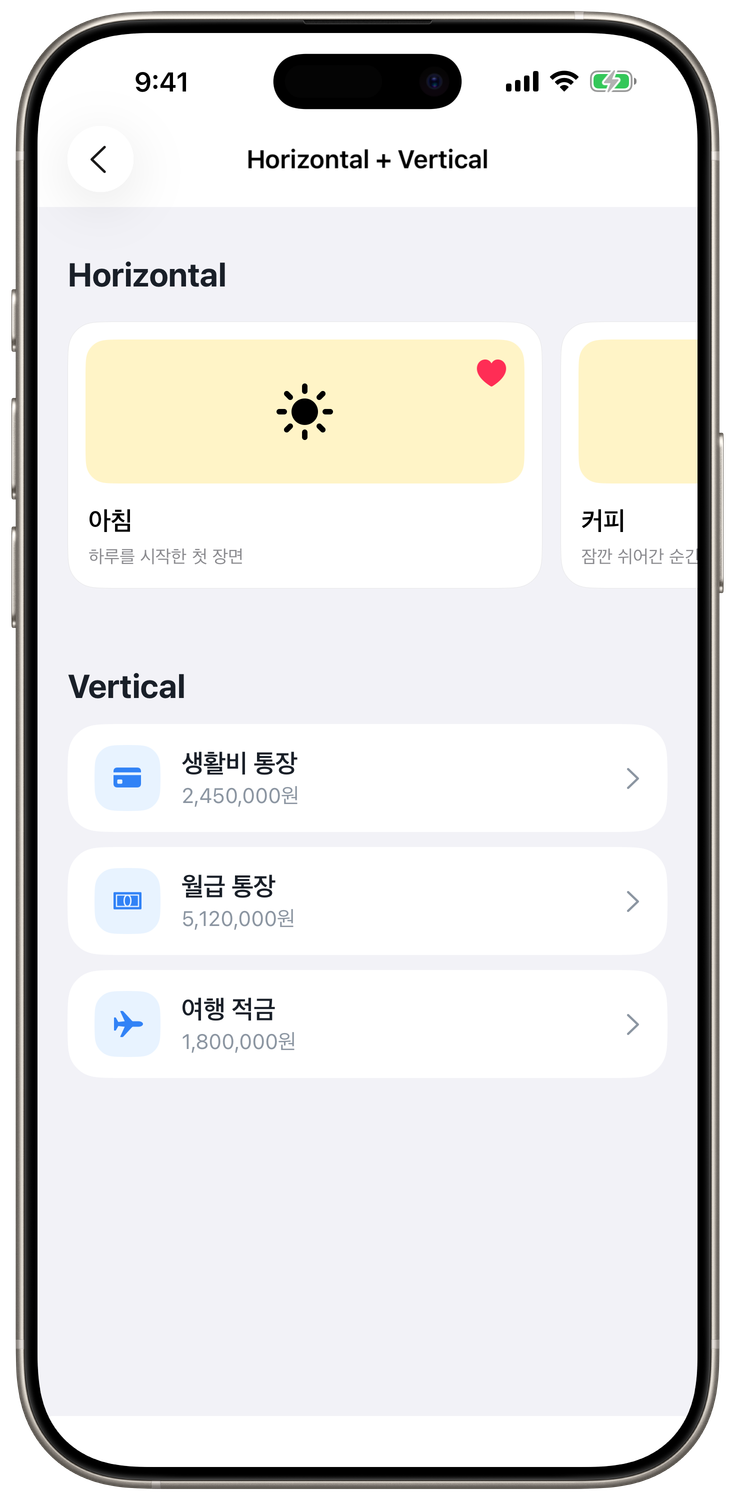
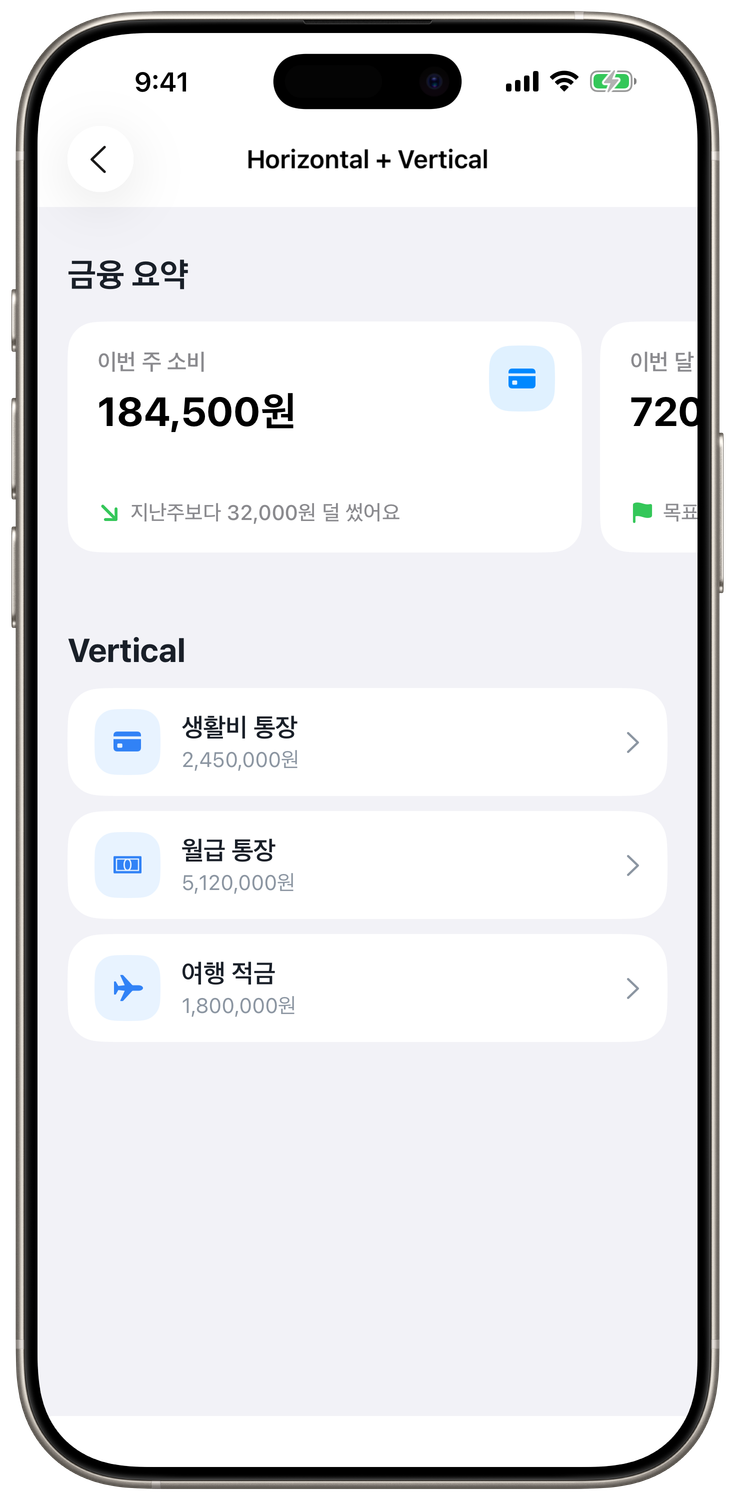
[#59] Horizontal 예제를 금융 요약 카드로 개선

diff --git a/Projects/Shared/CollectionViewAdapter/Demo/4. ReadmeCapture/3. ReadmeMixedSectionsViewController.swift b/Projects/Shared/CollectionViewAdapter/Demo/4. ReadmeCapture/3. ReadmeMixedSectionsViewController.swift
@@ -1,31 +1,265 @@
 import CollectionViewAdapter
 import UIKit
 
+private final class ReadmeFinanceSummaryContentView: UIControl, Touchable {
+    struct Item: Identifiable, Equatable {
+        let id: String
+        let title: String
+        let amount: String
+        let detail: String
+        let symbolName: String
+        let detailSymbolName: String
+    }
+    var item: Item? {
+        didSet {
+            guard item != oldValue else {
+                return
+            }
+            applyItem()
+        }
+    }
+    private let surfaceView = UIView()
+    private let titleLabel = UILabel()
+    private let amountLabel = UILabel()
+    private let symbolBackgroundView = UIView()
+    private let symbolView = UIImageView()
+    private let detailSymbolView = UIImageView()
+    private let detailLabel = UILabel()
+    private let detailStackView = UIStackView()
+    override init(frame: CGRect) {
+        super.init(frame: frame)
+        configureView()
+        configureLayout()
+    }
+    @available(*, unavailable)
+    required init?(coder: NSCoder) {
+        fatalError("init(coder:)는 지원하지 않습니다.")
+    }
+
+    override var isHighlighted: Bool {
+        didSet {
+            surfaceView.alpha = isHighlighted ? 0.72 : 1
+            surfaceView.transform = isHighlighted
+                ? CGAffineTransform(scaleX: 0.98, y: 0.98)
+                : .identity
+        }
+    }
+
+    private func applyItem() {
+        guard let item else {
+            titleLabel.text = nil
+            amountLabel.text = nil
+            detailLabel.text = nil
+            symbolView.image = nil
+            detailSymbolView.image = nil
+            accessibilityLabel = nil
+            return
+        }
+
+        titleLabel.text = item.title
+        amountLabel.text = item.amount
+        detailLabel.text = item.detail
+        symbolView.image = UIImage(systemName: item.symbolName)
+        detailSymbolView.image = UIImage(
+            systemName: item.detailSymbolName
+        )
+        accessibilityLabel =
+            "\(item.title), \(item.amount), \(item.detail)"
+    }
+
+    private func configureView() {
+        backgroundColor = .clear
+        isAccessibilityElement = true
+        accessibilityTraits = .button
+
+        surfaceView.backgroundColor = .secondarySystemGroupedBackground
+        surfaceView.layer.cornerRadius = 20
+        surfaceView.layer.cornerCurve = .continuous
+        surfaceView.isUserInteractionEnabled = false
+
+        titleLabel.font = .systemFont(ofSize: 15, weight: .semibold)
+        titleLabel.textColor = .secondaryLabel
+
+        amountLabel.font = .systemFont(ofSize: 27, weight: .bold)
+        amountLabel.textColor = .label
+
+        symbolBackgroundView.backgroundColor =
+            UIColor.systemBlue.withAlphaComponent(0.12)
+        symbolBackgroundView.layer.cornerRadius = 14
+
+        symbolView.tintColor = .systemBlue
+        symbolView.contentMode = .scaleAspectFit
+        symbolView.preferredSymbolConfiguration =
+            UIImage.SymbolConfiguration(
+                pointSize: 18,
+                weight: .semibold
+            )
+
+        detailSymbolView.tintColor = .systemGreen
+        detailSymbolView.contentMode = .scaleAspectFit
+        detailSymbolView.preferredSymbolConfiguration =
+            UIImage.SymbolConfiguration(
+                pointSize: 13,
+                weight: .bold
+            )
+
+        detailLabel.font = .systemFont(ofSize: 14, weight: .medium)
+        detailLabel.textColor = .secondaryLabel
+        detailLabel.numberOfLines = 1
+
+        detailStackView.axis = .horizontal
+        detailStackView.alignment = .center
+        detailStackView.spacing = 6
+        detailStackView.addArrangedSubview(detailSymbolView)
+        detailStackView.addArrangedSubview(detailLabel)
+    }
+
+    private func configureLayout() {
+        surfaceView.translatesAutoresizingMaskIntoConstraints = false
+        titleLabel.translatesAutoresizingMaskIntoConstraints = false
+        amountLabel.translatesAutoresizingMaskIntoConstraints = false
+        symbolBackgroundView.translatesAutoresizingMaskIntoConstraints =
+            false
+        symbolView.translatesAutoresizingMaskIntoConstraints = false
+        detailStackView.translatesAutoresizingMaskIntoConstraints = false
+
+        configureHierarchy()
+        activateSurfaceConstraints()
+        activateContentConstraints()
+    }
+
+    private func configureHierarchy() {
+        addSubview(surfaceView)
+        surfaceView.addSubview(titleLabel)
+        surfaceView.addSubview(amountLabel)
+        surfaceView.addSubview(symbolBackgroundView)
+        symbolBackgroundView.addSubview(symbolView)
+        surfaceView.addSubview(detailStackView)
+    }
+
+    private func activateSurfaceConstraints() {
+        NSLayoutConstraint.activate([
+            surfaceView.leadingAnchor.constraint(equalTo: leadingAnchor),
+            surfaceView.trailingAnchor.constraint(equalTo: trailingAnchor),
+            surfaceView.topAnchor.constraint(equalTo: topAnchor),
+            surfaceView.bottomAnchor.constraint(equalTo: bottomAnchor),
+
+            titleLabel.leadingAnchor.constraint(
+                equalTo: surfaceView.leadingAnchor,
+                constant: 20
+            ),
+            titleLabel.topAnchor.constraint(
+                equalTo: surfaceView.topAnchor,
+                constant: 18
+            ),
+
+            symbolBackgroundView.trailingAnchor.constraint(
+                equalTo: surfaceView.trailingAnchor,
+                constant: -18
+            ),
+            symbolBackgroundView.topAnchor.constraint(
+                equalTo: surfaceView.topAnchor,
+                constant: 16
+            ),
+            symbolBackgroundView.widthAnchor.constraint(
+                equalToConstant: 44
+            ),
+            symbolBackgroundView.heightAnchor.constraint(
+                equalToConstant: 44
+            ),
+
+            symbolView.centerXAnchor.constraint(
+                equalTo: symbolBackgroundView.centerXAnchor
+            ),
+            symbolView.centerYAnchor.constraint(
+                equalTo: symbolBackgroundView.centerYAnchor
+            ),
+            symbolView.widthAnchor.constraint(equalToConstant: 22),
+            symbolView.heightAnchor.constraint(equalToConstant: 22)
+        ])
+    }
+
+    private func activateContentConstraints() {
+        NSLayoutConstraint.activate([
+            amountLabel.leadingAnchor.constraint(
+                equalTo: titleLabel.leadingAnchor
+            ),
+            amountLabel.topAnchor.constraint(
+                equalTo: titleLabel.bottomAnchor,
+                constant: 8
+            ),
+            amountLabel.trailingAnchor.constraint(
+                lessThanOrEqualTo: symbolBackgroundView.leadingAnchor,
+                constant: -12
+            ),
+
+            detailStackView.leadingAnchor.constraint(
+                equalTo: titleLabel.leadingAnchor
+            ),
+            detailStackView.trailingAnchor.constraint(
+                lessThanOrEqualTo: surfaceView.trailingAnchor,
+                constant: -20
+            ),
+            detailStackView.bottomAnchor.constraint(
+                equalTo: surfaceView.bottomAnchor,
+                constant: -18
+            ),
+
+            detailSymbolView.widthAnchor.constraint(equalToConstant: 16),
+            detailSymbolView.heightAnchor.constraint(equalToConstant: 16)
+        ])
+    }
+}
+
+private struct ReadmeFinanceSummaryComponent: Component {
+    typealias Item = ReadmeFinanceSummaryContentView.Item
+
+    let item: Item
+
+    var estimatedHeight: CGFloat {
+        154
+    }
+
+    func createContent() -> ReadmeFinanceSummaryContentView {
+        ReadmeFinanceSummaryContentView()
+    }
+
+    func render(
+        context _: ComponentContext,
+        content: ReadmeFinanceSummaryContentView
+    ) {
+        content.item = item
+    }
+}
+
 /// 첫 Section은 Horizontal, 두 번째 Section은 Vertical로 구성합니다.
 @MainActor
 final class ReadmeMixedSectionsViewController:
     UIViewController {
-    private let featured: [GridDemoContentView.Item] = [
+    private let summaries: [ReadmeFinanceSummaryContentView.Item] = [
         .init(
-            id: "morning",
-            title: "아침",
-            subtitle: "하루를 시작한 첫 장면",
-            symbolName: "sun.max.fill",
-            isFavorite: true
+            id: "spending",
+            title: "이번 주 소비",
+            amount: "184,500원",
+            detail: "지난주보다 32,000원 덜 썼어요",
+            symbolName: "creditcard.fill",
+            detailSymbolName: "arrow.down.right"
         ),
         .init(
-            id: "coffee",
-            title: "커피",
-            subtitle: "잠깐 쉬어간 순간",
-            symbolName: "cup.and.saucer.fill",
-            isFavorite: false
+            id: "saving",
+            title: "이번 달 저축",
+            amount: "720,000원",
+            detail: "목표까지 280,000원 남았어요",
+            symbolName: "banknote.fill",
+            detailSymbolName: "flag.fill"
         ),
         .init(
-            id: "walk",
-            title: "산책",
-            subtitle: "걷다가 발견한 풍경",
-            symbolName: "figure.walk",
-            isFavorite: false
+            id: "budget",
+            title: "남은 생활비",
+            amount: "315,000원",
+            detail: "하루 22,500원씩 쓸 수 있어요",
+            symbolName: "calendar",
+            detailSymbolName: "checkmark.circle.fill"
         )
     ]
 
@@ -65,15 +299,15 @@ final class ReadmeMixedSectionsViewController:
 
     private var horizontalSection: some SectionModelType {
         LazySection(identifier: "horizontal") {
-            For(of: self.featured) { item in
-                GridDemoComponent(item: item)
+            For(of: self.summaries) { item in
+                ReadmeFinanceSummaryComponent(item: item)
             }
         }
         .withHeader(
             ComponentDemoTextComponent(
                 item: .init(
                     id: "horizontal-header",
-                    text: "Horizontal",
+                    text: "금융 요약",
                     style: .header,
                     appearance: .plain,
                     horizontalInset: 0
@@ -82,8 +316,8 @@ final class ReadmeMixedSectionsViewController:
         )
         .withSectionLayout(
             .horizontalCarousel(
-                itemWidth: 0.72,
-                estimatedHeight: 178,
+                itemWidth: 0.78,
+                estimatedHeight: 154,
                 spacing: 12,
                 behavior:
                     .continuousGroupLeadingBoundary,
